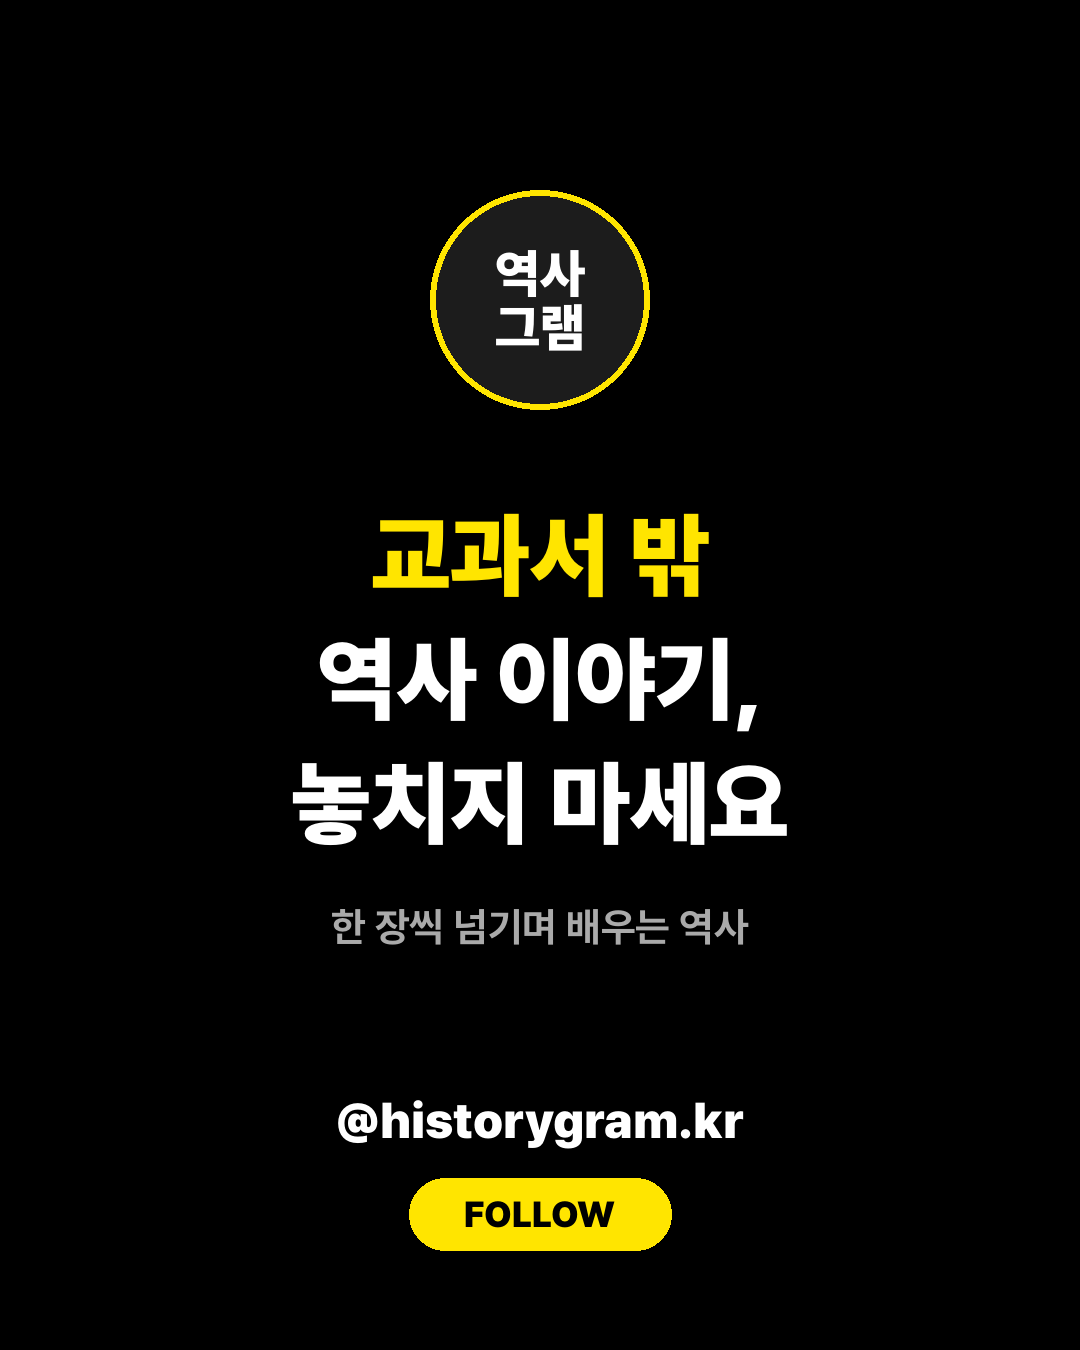
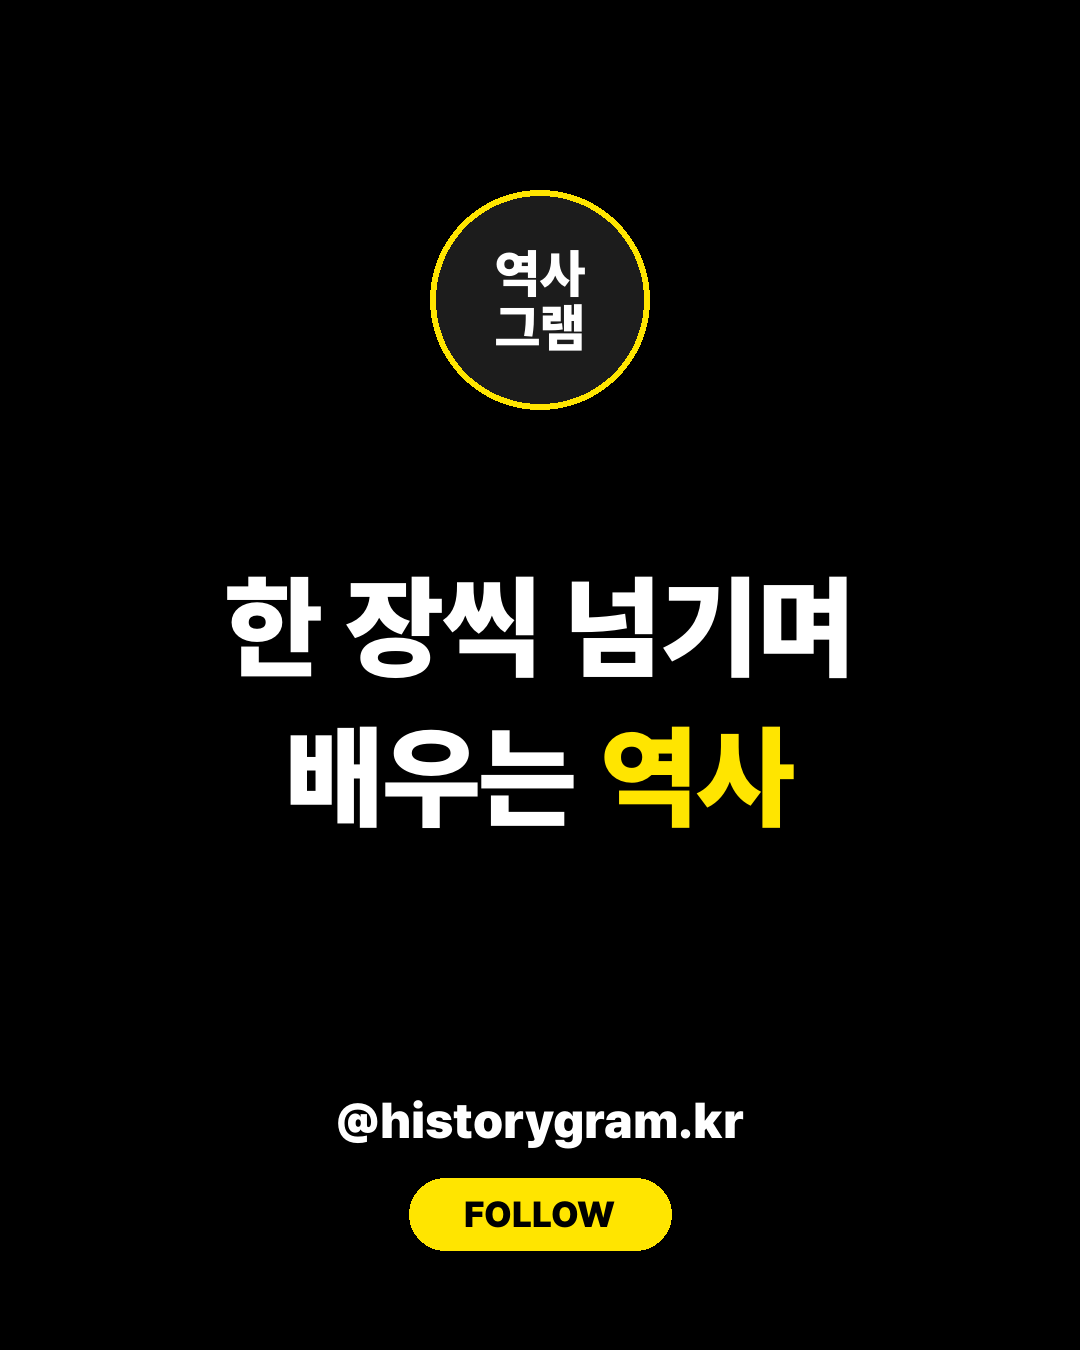
역사그램 팔로우 카드 문구를 '한 장씩 넘기며 배우는 역사'로
Claude-Session: https://claude.ai/code/session_013eU9urg7CNnbJUZejUJ2U2

Changed region(s): [[0.2139, 0.3733, 0.7944, 0.6222], [0.3056, 0.6533, 0.7028, 0.7156]]

diff --git a/drafts/historygram_ep01_kimmandeok/render_06.py b/drafts/historygram_ep01_kimmandeok/render_06.py
@@ -41,18 +41,16 @@ img = Image.new("RGBA", (W, H), (0, 0, 0, 255))
 img.alpha_composite(icon(220), ((W - 220) // 2, 190))
 d = ImageDraw.Draw(img)
 
-y = 500
-for parts in ([("교과서 밖", YELLOW)], [("역사 이야기,", WHITE)], [("놓치지 마세요", WHITE)]):
-    font = f(BLACK, 92)
+y = 560
+for parts in ([("한 장씩 넘기며", WHITE)], [("배우는 ", WHITE), ("역사", YELLOW)]):
+    font = f(BLACK, 112)
     total = sum(font.getlength(t) for t, _ in parts)
     assert total <= W - 180
     x = (W - total) / 2
     for t, c in parts:
         d.text((x, y), t, font=font, fill=c)
         x += font.getlength(t)
-    y += 124
-
-d.text((W / 2, y + 30), "한 장씩 넘기며 배우는 역사", font=f(BOLD, 40), fill=GRAY, anchor="ma")
+    y += 150
 
 hy = H - 260
 d.text((W / 2, hy), HANDLE, font=f(BLACK, 50), fill=WHITE, anchor="ma")
